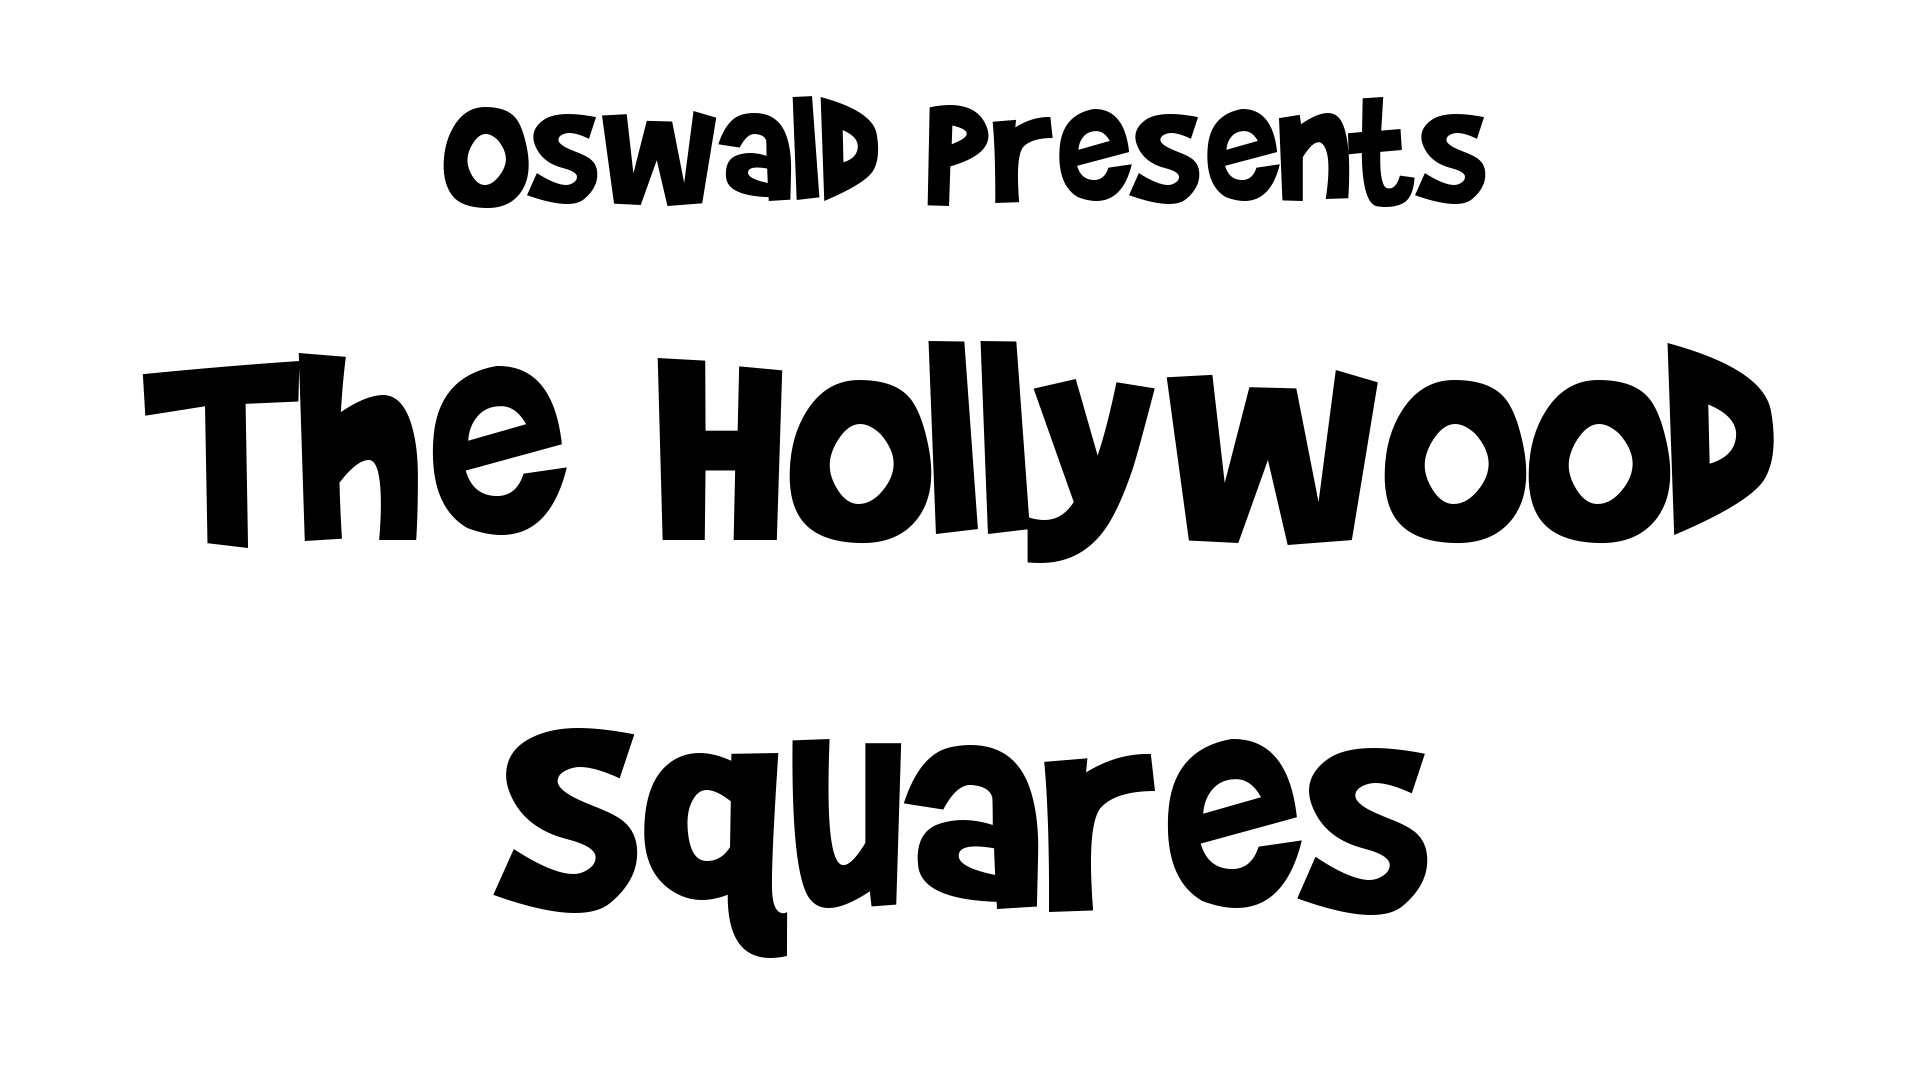
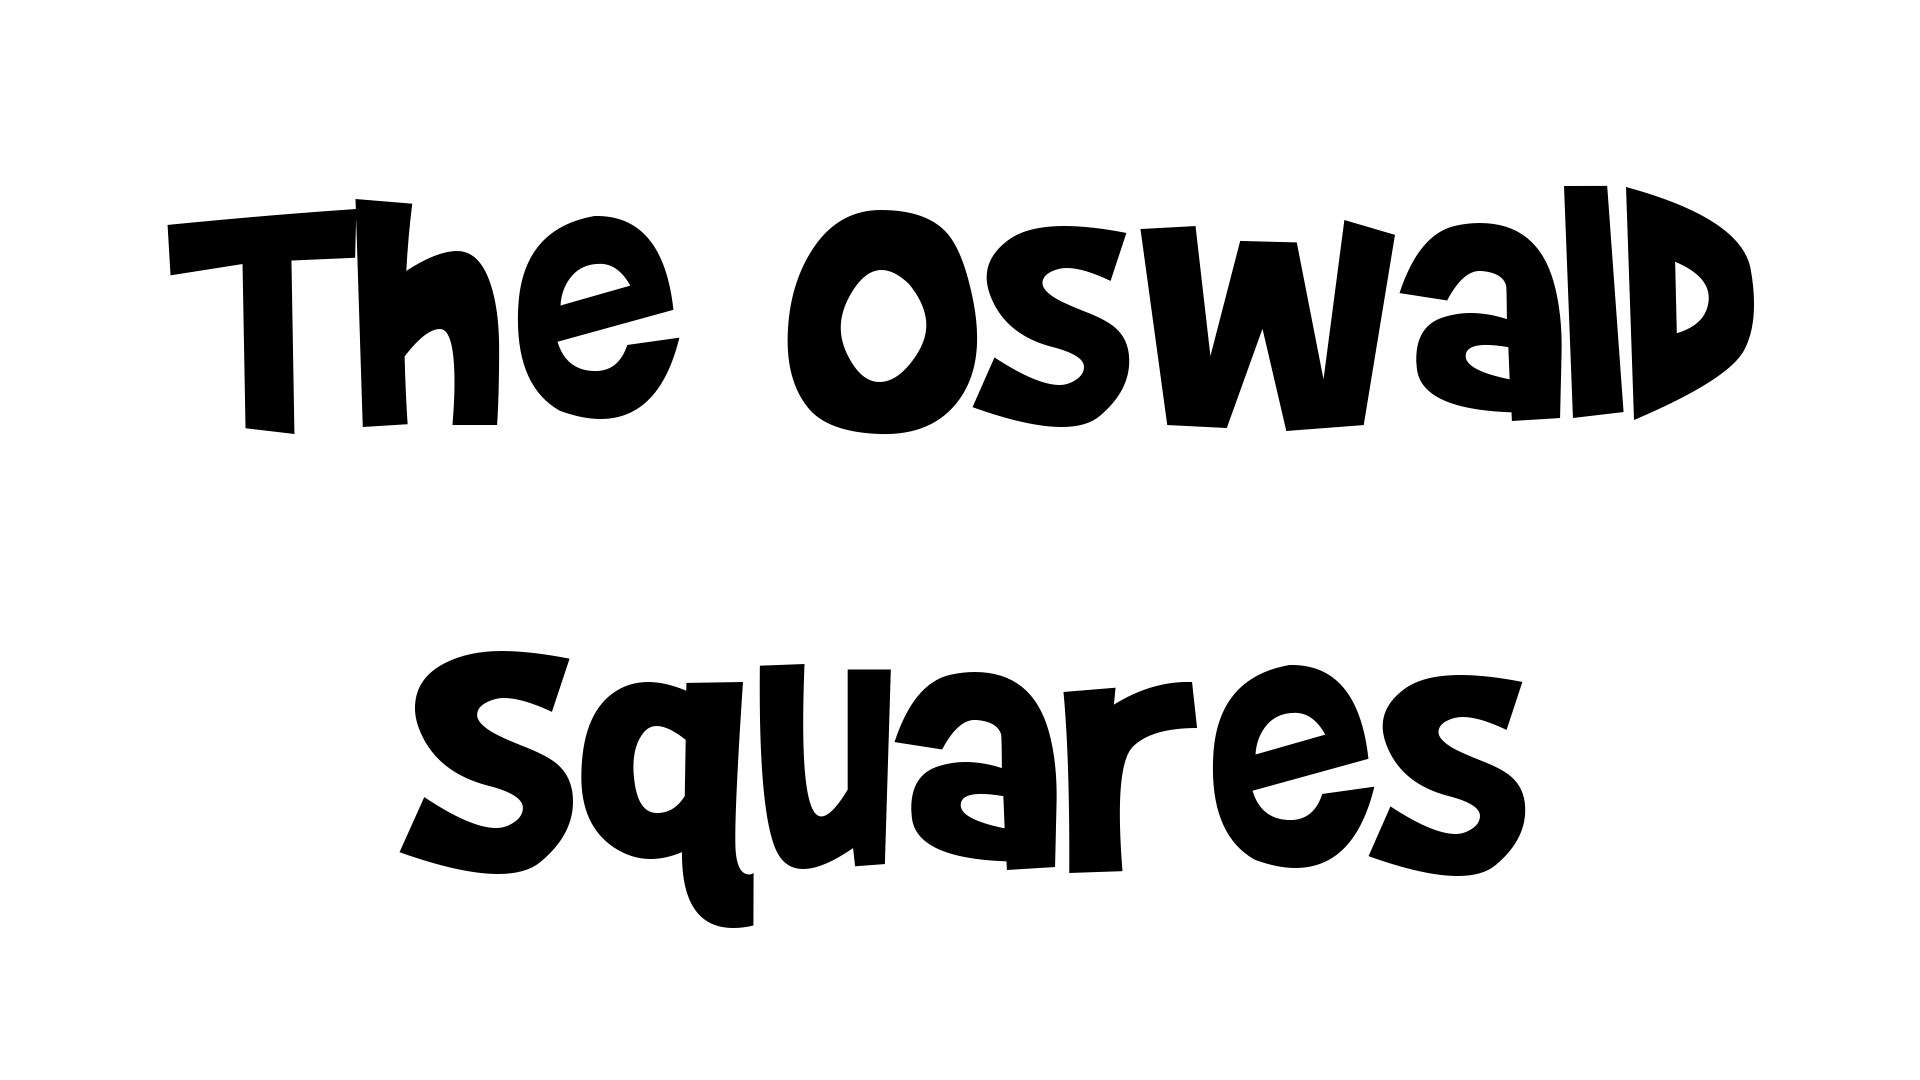
update title image and shift grid over

Changed region(s): [[0.0625, 0.0917, 0.9375, 0.5194], [0.1875, 0.5806, 0.8125, 0.8861]]

diff --git a/main.py b/main.py
@@ -32,9 +32,9 @@ pygame.mixer.music.load("./media/hollywood_squares.mp3")
 info = pygame.display.Info()
 display_width = math.ceil((info.current_w*4)/5)
 display_height = math.ceil((info.current_h*4)/5)
-title_width = math.ceil((info.current_w * 1)/2)
-title_height = math.ceil((info.current_h * 1)/2)
-grid_size = title_height
+title_width = math.ceil((info.current_w * 3)/4)
+title_height = math.ceil((info.current_h * 3)/4)
+grid_size = math.ceil((info.current_h * 1)/2)
 
 # Setup game object
 game = Game(display_width, display_height, grid_size)
@@ -58,9 +58,9 @@ pygame.display.set_caption('The Oswald Squares')
 # pygame.display.set_icon(grid)
 
 # Image manipulation
-picture = pygame.image.load('./media/hollywood_title.png')
-picture = pygame.transform.scale(picture, (title_width,title_height))
-grid = pygame.image.load('./media/grid.jpg')
+title = pygame.image.load('./media/hollywood_title.png')
+title = pygame.transform.scale(title, (title_width,title_height))
+grid = pygame.image.load('./media/hs_grid.png')
 grid = pygame.transform.scale(grid, (grid_size,grid_size))
 
 # Run start screen until the user asks to quit or start
@@ -75,7 +75,7 @@ while starting:
 
     # Start screen background and text
     game_display.fill(oswald_light_blue)
-    game_display.blit(picture,((display_width-title_width)/2,(display_height-title_height)/2))
+    game_display.blit(title,((display_width-title_width)/2,(display_height-title_height)/2))
 
     # Flip the display
     pygame.display.flip()
@@ -94,7 +94,8 @@ while running:
             if event.key == K_ESCAPE:
                 running = False
         elif event.type == pygame.MOUSEBUTTONDOWN:
-            game.in_square(pos)
+            if event.button == 1:
+                game.in_square(pos)
                 
 
         elif event.type == pygame.MOUSEMOTION:
@@ -114,13 +115,15 @@ while running:
     game_display.fill(oswald_light_blue)
 
     # If there's an active game
-    if not game.is_active():
+    if game.is_active():
         correct_button.draw(game_display)
         incorrect_button.draw(game_display)
-        game.draw_squares(game_display)
+    
+    # Always show the board
+    game.draw_squares(game_display)
 
     # Display grid
-    game_display.blit(grid,((display_width-grid_size)/2,(display_height-grid_size)/2))
+    game_display.blit(grid,(((display_width-grid_size)*6)/7,(display_height-grid_size)/2))
 
     # Flip the display
     pygame.display.flip()

diff --git a/game.py b/game.py
@@ -53,25 +53,22 @@ class Game():
         for employee in self.employees:
             if employee.order < 3:
                 employee.set_rectangle(
-                                      ((self.display_width-self.grid_size) / 2) + (employee.order * self.grid_increment),
+                                      (((self.display_width-self.grid_size) * 6)/ 7) + (employee.order * self.grid_increment),
                                       ((self.display_height-self.grid_size) / 2),
                                       self.grid_increment
                                       )
-                print('first',employee.name, ((self.display_width-self.grid_size) / 2) + (employee.order * self.grid_increment), ((self.display_height-self.grid_size) / 2), self.grid_increment)
             elif employee.order < 6:
                 employee.set_rectangle(
-                                      ((self.display_width-self.grid_size) / 2) + ((employee.order-3) * self.grid_increment),
+                                      (((self.display_width-self.grid_size) * 6)/ 7) + ((employee.order-3) * self.grid_increment),
                                       ((self.display_height-self.grid_size) / 2) + self.grid_increment,
                                       self.grid_increment
                                       )
-                print('sec',employee.name, ((self.display_width-self.grid_size) / 2) + ((employee.order-3) * self.grid_increment), ((self.display_height-self.grid_size) / 2), self.grid_increment)
             elif employee.order < 9:
                 employee.set_rectangle(
-                                      ((self.display_width-self.grid_size) / 2) + ((employee.order-6) * self.grid_increment),
+                                      (((self.display_width-self.grid_size) * 6)/ 7) + ((employee.order-6) * self.grid_increment),
                                       ((self.display_height-self.grid_size) / 2) + (2 * self.grid_increment),
                                       self.grid_increment
                                       )
-                print('third',employee.name, ((self.display_width-self.grid_size) / 2) + ((employee.order-6) * self.grid_increment), ((self.display_height-self.grid_size) / 2), self.grid_increment)
             else:
                 raise Exception('Error: Squares out of bounds')
 
